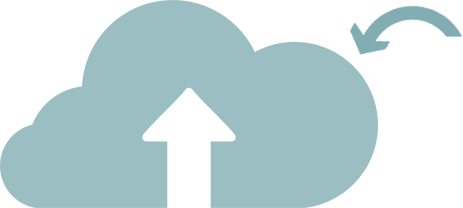
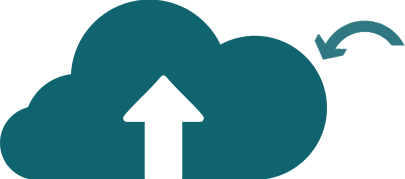
Make the file drag/drop area more prominent when a file is being dragged over it

diff --git a/avocet/css/avocet.skin.css b/avocet/css/avocet.skin.css
@@ -408,8 +408,29 @@
  ** Widget Specific: submitpublication **
  ****************************************/
 
-#oa-submitpublication-upload-wrap.oa-dragover p {
+#oa-submitpublication-upload-wrap {
+    border-color: #DFE2E2;
+}
+
+#oa-submitpublication-upload #oa-submitpublication-upload-wrap.oa-dragover {
+    background-color: #F3F6F6;
+    border-color: #98B0B4;
+}
+
+#oa-submitpublication-upload-wrap p {
     color: #70A2A9;
+}
+
+#oa-submitpublication-upload-wrap.oa-dragover p {
+    color: #106470;
+}
+
+#oa-submitpublication-upload-wrap .oa-link {
+    color: #DB6E4C;
+}
+
+#oa-submitpublication-upload-wrap.oa-dragover .oa-link {
+    color: #CB4F00;
 }
 
 #oa-submitpublication-welcome-container header {
